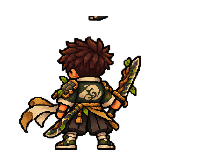
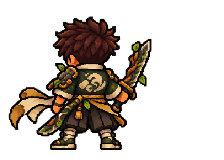
Fix Terra sprite scale and movement facing
Remove Terra atlas seam bleed and keep the character facing movement while firing.

Changed region(s): [[0.0312, 0.0938, 0.6875, 0.9375]]

diff --git a/src/scenes/ArenaScene.ts b/src/scenes/ArenaScene.ts
@@ -51,6 +51,8 @@ export class ArenaScene extends Phaser.Scene {
   private heroSprite!: Phaser.GameObjects.Image;
   private attackPose = 0;
   private facing: 'north' | 'south' | 'east' | 'west' = 'south';
+  private heroMoveX = 0;
+  private heroMoveY = 0;
   private heroX = 480;
   private heroY = 385;
   private heroHp = 5;
@@ -287,14 +289,14 @@ export class ArenaScene extends Phaser.Scene {
 
   private animateHero(mx: number, my: number): void {
     const moving = Math.hypot(mx, my) > 0.15;
-    if (moving && this.attackPose <= 0) this.facing = Math.abs(mx) > Math.abs(my) ? mx > 0 ? 'east' : 'west' : my < 0 ? 'north' : 'south';
+    if (moving) this.facing = Math.abs(mx) > Math.abs(my) ? mx > 0 ? 'east' : 'west' : my < 0 ? 'north' : 'south';
     const baseKey = this.facing === 'south' ? this.selectedHero
       : this.facing === 'north' ? `${this.selectedHero}-back`
       : `${this.selectedHero}-walk${moving ? Math.floor(this.elapsed * 8) % 2 + 1 : 1}`;
     const form = this.selectedHero === 'jao'
       ? jaoFormTextureSuffix(this.affinities) || (activeSynergy(this.affinities) === 'plasma' ? '-plasma' : '')
       : '';
-    const key = this.attackPose > 0 && (this.facing === 'east' || this.facing === 'west')
+    const key = this.attackPose > 0 && !moving && (this.facing === 'east' || this.facing === 'west')
       ? `${this.selectedHero}-attack${form}` : `${baseKey}${form}-armed`;
     if (this.heroSprite.texture.key !== key) {
       this.heroSprite.setTexture(key);
@@ -425,6 +427,7 @@ export class ArenaScene extends Phaser.Scene {
     ({ x: mx, y: my } = normalizedMovement(mx, my));
     if (Math.hypot(mx, my) > 0.15) { this.lastMoveX = mx; this.lastMoveY = my; }
     if (this.dashTimer > 0) { mx = this.lastMoveX; my = this.lastMoveY; }
+    this.heroMoveX = mx; this.heroMoveY = my;
     if (this.tryDoor(mx, my)) return;
     const speed = this.dashTimer > 0 ? 520 : 205;
     const nextX = this.heroX + mx * speed * dt;
@@ -589,9 +592,11 @@ export class ArenaScene extends Phaser.Scene {
     this.drawEnergy();
     this.soundscape.play('shot');
     this.attackPose = 0.22;
-    this.facing = this.weapon === 'bolt' && Math.abs(dy) > Math.abs(dx) * 1.7
-      ? dy < 0 ? 'north' : 'south' : dx < 0 ? 'west' : 'east';
-    this.animateHero(0, 0);
+    if (Math.hypot(this.heroMoveX, this.heroMoveY) <= 0.15) {
+      this.facing = this.weapon === 'bolt' && Math.abs(dy) > Math.abs(dx) * 1.7
+        ? dy < 0 ? 'north' : 'south' : dx < 0 ? 'west' : 'east';
+    }
+    this.animateHero(this.heroMoveX, this.heroMoveY);
     if (this.weapon === 'bolt') {
       const angle = Math.atan2(dy, dx);
       for (const enemy of [...this.enemies]) {

diff --git a/scripts/build_jao_elemental_sprites.py b/scripts/build_jao_elemental_sprites.py
@@ -26,12 +26,19 @@ ANCHOR_X = 80
 BASELINE_Y = 150
 
 
-def make_frame(atlas: Image.Image, cell: int) -> Image.Image:
+def make_frame(atlas: Image.Image, cell: int, trim_lower_row_seam: bool = False) -> Image.Image:
     width, height = atlas.size
     x0, y0 = (cell % 2) * (width // 2), (cell // 2) * (height // 2)
     x1 = width if cell % 2 else width // 2
     y1 = height if cell // 2 else height // 2
     frame = atlas.crop((x0, y0, x1, y1)).convert("RGBA")
+    # The Terra concept sheet has a few opaque pixels bleeding across the
+    # horizontal divider from the top row. They are detached from the pose,
+    # but alpha-bounds would otherwise include them and shrink the whole frame.
+    if trim_lower_row_seam and cell >= 2:
+        alpha = frame.getchannel("A")
+        alpha.paste(0, (0, 0, frame.width, 16))
+        frame.putalpha(alpha)
     alpha = frame.getchannel("A").point(lambda value: 255 if value >= 32 else 0)
     bounds = alpha.getbbox()
     if bounds is None:
@@ -85,7 +92,7 @@ def main() -> None:
         atlas = Image.open(source).convert("RGBA")
         if atlas.width != atlas.height:
             raise ValueError(f"Expected square atlas: {source}")
-        frames = [make_frame(atlas, i) for i in range(4)]
+        frames = [make_frame(atlas, i, trim_lower_row_seam=element == "earth") for i in range(4)]
         names = (
             f"jao-{element}-armed.png",
             f"jao-walk1-{element}-armed.png",

diff --git a/docs/04-ROADMAP.md b/docs/04-ROADMAP.md
@@ -13,7 +13,7 @@ Cada tarefa termina com commit/PR, teste no Pages quando houver interface, atual
 | T007 | Chefe com ataques sinalizados e encerramento da run | T006 | Vitória e derrota completas; relatório com seed e tempo. **Vertical slice P1.** |
 | T008 | Playtest P1 e revisão de desempenho/controles | T007 | Testes no Android e desktop; bugs de bloqueio e mortes sem feedback corrigidos. **Aceite do MVP para seguir em 12/10/2026.** Não há registro de aparelho, FPS ou run completa, então esses casos permanecem em observação para o beta. |
 | T009 | Direção de arte autoral, UI, áudio e créditos | T008 | Origem rastreável para cada asset; leitura do combate preservada. A v0.2 em pixel art foi aprovada e integrada em abertura, seleção, Átrio, Forja, personagens e HUD. Sons Web Audio originais com mudo. O novo altar e inimigos têm arte própria; faltam refinamento e escuta em aparelho. |
-| T010 | Personagens Junq, masmorras e afinidades | T008, T009 | Jão/Alice/Gui com espada, arco e cartas; cinco fases por mundo, chefe na quinta, baús 1/5 e 3/5, altares 2/5 e 4/5. Três regiões visuais iniciais, cinco criaturas, relíquias de vida/escudo/energia, Plasma e Lodo. **Implementado:** seis formas puras do Jão (Terra, Água, Fogo, Raio, Luz e Sombra) com roupas/sprites e habilidades próprias; modo ADM por `?admin=1` para selecionar formas, invocar inimigos e restaurar vida/energia; escala das formas alinhada à altura visível do Jão base; ciclos lateral e vertical refinados; seis poses de ataque lateral autorais no mesmo canvas e baseline; forma Raio v2 sem espada, com descarga na mão. Seis spritesheets transparentes de quatro quadros continuam ligadas às habilidades puras; as regras de dano, alcance e deslocamento foram preservadas. Alice mantém a rajada de flechas e Gui o leque de cartas (commits anteriores `d910a72`, `d42fc7f`); typecheck, quatro arquivos de testes e build passam localmente. O Pages foi aberto após o deploy: seleção, arena e forma Raio via ADM foram observadas. **Em execução:** conferir as poses de ataque durante combate no Pages via ADM, percorrer a run, criar arte própria da Cripta, formas dos outros heróis e balancear em aparelho. Ver [formas/assets do Jão](09-JAO-SINTONIAS-E-ASSETS.md), [masmorras](08-MASMORRAS-E-RELIQUIAS.md) e [modo ADM](10-MODO-ADM-VALIDACAO.md).
+| T010 | Personagens Junq, masmorras e afinidades | T008, T009 | Jão/Alice/Gui com espada, arco e cartas; cinco fases por mundo, chefe na quinta, baús 1/5 e 3/5, altares 2/5 e 4/5. Três regiões visuais iniciais, cinco criaturas, relíquias de vida/escudo/energia, Plasma e Lodo. **Implementado:** seis formas puras do Jão (Terra, Água, Fogo, Raio, Luz e Sombra) com roupas/sprites e habilidades próprias; modo ADM por `?admin=1` para selecionar formas, invocar inimigos e restaurar vida/energia; escala das formas alinhada à altura visível do Jão base; ciclos lateral e vertical refinados; seis poses de ataque lateral autorais no mesmo canvas e baseline; forma Raio v2 sem espada, com descarga na mão. Seis spritesheets transparentes de quatro quadros continuam ligadas às habilidades puras; as regras de dano, alcance e deslocamento foram preservadas. Alice mantém a rajada de flechas e Gui o leque de cartas (commits anteriores `d910a72`, `d42fc7f`); typecheck, quatro arquivos de testes e build passam localmente. O Pages foi aberto após o deploy: seleção, arena e forma Raio via ADM foram observadas. **Correção desta revisão:** vazamento na borda da prancha da Terra removido de duas poses, recuperando a escala do personagem; ao mover enquanto ataca, a caminhada mantém a direção do movimento em vez de travar na mira. `npm run typecheck`, `npm test` e `npm run build` passaram localmente. **Em execução:** conferir as poses de ataque durante combate no Pages via ADM, percorrer a run, criar arte própria da Cripta, formas dos outros heróis e balancear em aparelho. Ver [formas/assets do Jão](09-JAO-SINTONIAS-E-ASSETS.md), [masmorras](08-MASMORRAS-E-RELIQUIAS.md) e [modo ADM](10-MODO-ADM-VALIDACAO.md).
 | T011 | Hub, desbloqueios, save com migração, opções e onboarding | T008 | Persistência após fechar/reabrir; reset e recuperação de save inválido. |
 | T012 | Beta fechado e polimento | T009–T011 | Jogadores novos concluem tentativa; erros de console, input e save monitorados. |
 | T013 | Lançamento web | T012 | CI e Pages verdes, créditos, instruções, changelog e teste final em dispositivos. |

diff --git a/docs/HANDOFF.md b/docs/HANDOFF.md
@@ -7,7 +7,7 @@
 - T007: sala do chefe no ponto mais distante do início, aviso visual antes dos ataques, barra de vida, vitória e derrota com seed, tempo, dano, salas e moedas.
 - T008: CSS preenche a área visível em celular horizontal, aviso para girar no retrato, tentativa de tela cheia após toque, pausa ao girar/perder foco, controles de toque reposicionados e FPS opcional (`?debug=1`). Captura direta de teclado complementa o input do Phaser. Ao segurar tiro, a mira seleciona o inimigo visível mais próximo; o tiro gasta energia conforme a arma, 100 pontos no máximo, recarga de 12/s após 0,65s sem disparar. Sem alvo ou sem energia suficiente não há tiro. Tiro a curta distância acerta o inimigo sobreposto ao herói; inimigos dão um passo lateral persistente para sair da quina de obstáculos; `?seed=N` reproduz salas e baús. **MVP testou e aprovou seguir em 12/10/2026.** Aparelho, FPS e run completa não foram informados nesta sessão; anotar caso haja bugs no beta, sem reabrir o aceite como impedimento.
 - T009 implementada no web: cenário de ruínas com pisos gravados, portas e obstáculos redesenhados, silhuetas próprias para herói e inimigos, HUD e overlays revisados, efeitos Web Audio originais com mudo. `CREDITS.md` registra procedência; não há assets externos. O MVP adiou os testes de áudio/arte no aparelho e pediu para avançar em 12/10/2026.
-- T010 em execução: run reorganizada em mundos de cinco fases; as seis formas puras do Jão e suas habilidades estão implementadas, e Plasma/Lodo seguem como fusões iniciais. O modo ADM por `?admin=1` permite selecionar a forma, invocar inimigos e restaurar vida/energia sem repetir a run. A escala das formas está corrigida. As seis habilidades puras agora usam spritesheets PNG originais de quatro quadros com transparência; faltam inspeção visual no Pages e playtest da run completa, arte própria da Cripta, formas de Alice/Gui e balanceamento. T011–T015 pendentes. Save, PWA e APK não existem.
+- T010 em execução: run reorganizada em mundos de cinco fases; as seis formas puras do Jão e suas habilidades estão implementadas, e Plasma/Lodo seguem como fusões iniciais. O modo ADM por `?admin=1` permite selecionar a forma, invocar inimigos e restaurar vida/energia sem repetir a run. A escala das formas está corrigida. As seis habilidades puras agora usam spritesheets PNG originais de quatro quadros com transparência. Nesta revisão, o recorte da Terra descarta pixels vazados da borda em duas poses, e o sprite acompanha a direção do movimento durante ataque e tiro automático. `npm run typecheck`, `npm test` e `npm run build` passaram; a correção ainda precisa ser observada no Pages publicado. Faltam playtest da run completa, arte própria da Cripta, formas de Alice/Gui e balanceamento. T011–T015 pendentes. Save, PWA e APK não existem.
 - O MVP enviou oito capturas do Soul Knight e depois fotos de Jão, Alice e Gui em 12/10/2026. **Rejeitou a v0.1 futurista** (`JUNQ: RUPTURA`, anel e interface abstrata). `docs/06-DIRECAO-VISUAL.md` foi substituído pela v0.2: pixel art de aventura com pedra, madeira, tochas, retratos/sprites do trio e mockups de abertura, seleção e combate. O MVP aprovou a v0.2 e pediu assets na build. Quatro WebP em `docs/visual/` permanecem conceitos; fotos originais não foram publicadas. A primeira implementação usa novos assets de produção em `src/assets/`, sem incluir os mockups na build. Não reintroduzir a direção rejeitada.
 
 ## Evidência e limites
